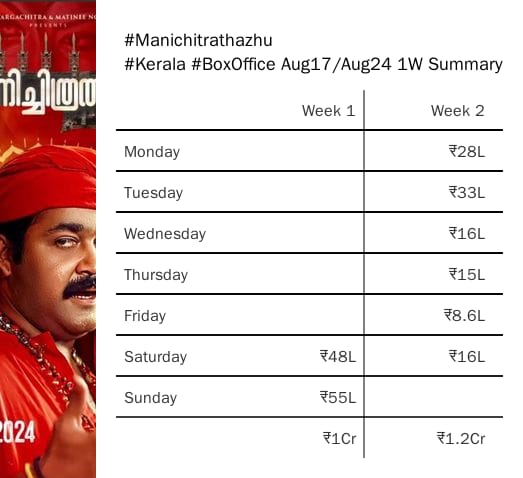
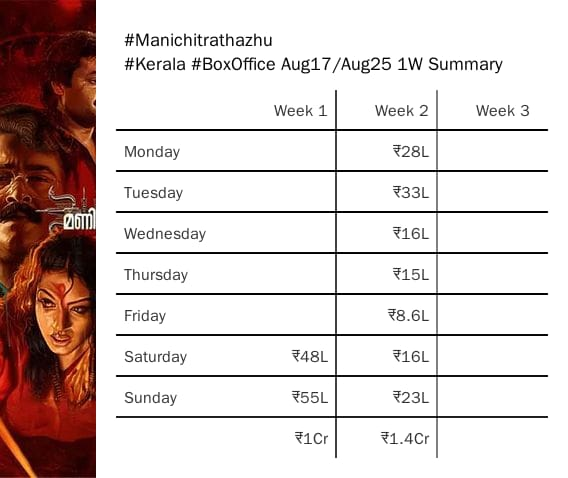
add text width measure

diff --git a/config/misc.js b/config/misc.js
@@ -4,8 +4,37 @@ const autoIncrementString = () =>
 
 const randomId = () => Math.random().toString(36).substr(2, 6);
 
+const textWidth = (text, fontSize = 12) => {
+  const avg = 0.5279276315789471;
+  const width = [
+    0, 0, 0, 0, 0, 0, 0, 0, 0, 0, 0, 0, 0, 0, 0, 0, 0, 0, 0, 0, 0, 0, 0, 0, 0,
+    0, 0, 0, 0, 0, 0, 0, 0.2796875, 0.2765625, 0.3546875, 0.5546875, 0.5546875,
+    0.8890625, 0.665625, 0.190625, 0.3328125, 0.3328125, 0.3890625, 0.5828125,
+    0.2765625, 0.3328125, 0.2765625, 0.3015625, 0.5546875, 0.5546875, 0.5546875,
+    0.5546875, 0.5546875, 0.5546875, 0.5546875, 0.5546875, 0.5546875, 0.5546875,
+    0.2765625, 0.2765625, 0.584375, 0.5828125, 0.584375, 0.5546875, 1.0140625,
+    0.665625, 0.665625, 0.721875, 0.721875, 0.665625, 0.609375, 0.7765625,
+    0.721875, 0.2765625, 0.5, 0.665625, 0.5546875, 0.8328125, 0.721875,
+    0.7765625, 0.665625, 0.7765625, 0.721875, 0.665625, 0.609375, 0.721875,
+    0.665625, 0.94375, 0.665625, 0.665625, 0.609375, 0.2765625, 0.3546875,
+    0.2765625, 0.4765625, 0.5546875, 0.3328125, 0.5546875, 0.5546875, 0.5,
+    0.5546875, 0.5546875, 0.2765625, 0.5546875, 0.5546875, 0.221875, 0.240625,
+    0.5, 0.221875, 0.8328125, 0.5546875, 0.5546875, 0.5546875, 0.5546875,
+    0.3328125, 0.5, 0.2765625, 0.5546875, 0.5, 0.721875, 0.5, 0.5, 0.5,
+    0.3546875, 0.259375, 0.353125, 0.5890625,
+  ];
+  return (
+    text
+      .split("")
+      .map((c) =>
+        c.charCodeAt(0) < width.length ? width[c.charCodeAt(0)] : avg
+      )
+      .reduce((i, m) => i + m) * fontSize
+  );
+};
+
 const toEnIn = (value, locale = "en-in", options = {}) => {
   return value.toLocaleString(locale, options);
 };
 
-module.exports = { autoIncrementString, randomId, toEnIn };
+module.exports = { autoIncrementString, randomId, textWidth, toEnIn };

diff --git a/weekly.report.js b/weekly.report.js
@@ -6,7 +6,7 @@ const path = require("path");
 const sharp = require("sharp");
 
 const { csvPath, qc } = require("./config/env.js");
-const { toEnIn } = require("./config/misc.js");
+const { textWidth, toEnIn } = require("./config/misc.js");
 const { sync } = require("./config/git.js");
 const { moment } = require("./config/moment.js");
 const { db, syncFileInfo } = require("./config/nedb.js");
@@ -19,7 +19,7 @@ const collageItemWidth = 96;
   const name = /manichitrathazhu/i;
   const displayName = "Manichitrathazhu";
   const start_date = moment("2024-08-17", ["YYYY-MM-DD"]);
-  const end_date = moment("2024-08-24", ["YYYY-MM-DD"]);
+  const end_date = moment("2024-08-25", ["YYYY-MM-DD"]);
   const posterPath = path.resolve(__dirname, "./store/poster.jpg");
 
   await sync(csvPath); // git clone/pull
@@ -107,7 +107,7 @@ const collageItemWidth = 96;
       .reduce((m, i) => m + i[dataIndex], 0);
     if (1 < i) columns.push("|");
     columns.push({
-      width: Math.max(100, `${data._total[dataIndex]}`.length * 16),
+      width: Math.max(100, textWidth(`${data._total[dataIndex]}`) + 24),
       title: `Week ${i}`,
       dataIndex,
       align: "right",

diff --git a/reddit.fmbo.js b/reddit.fmbo.js
@@ -8,7 +8,7 @@ const { moment } = require("./config/moment.js");
 const { client } = require("./config/snoowrap.js");
 
 (async () => {
-  // mapping reddit post to wtf url_id
+  // mapping reddit post to fmbo url_id
   // store comment id to overwrite
   const config_path = path.resolve(__dirname, "./reddit.json");
   const configs = JSON.parse(fs.readFileSync(config_path, "utf8"));
